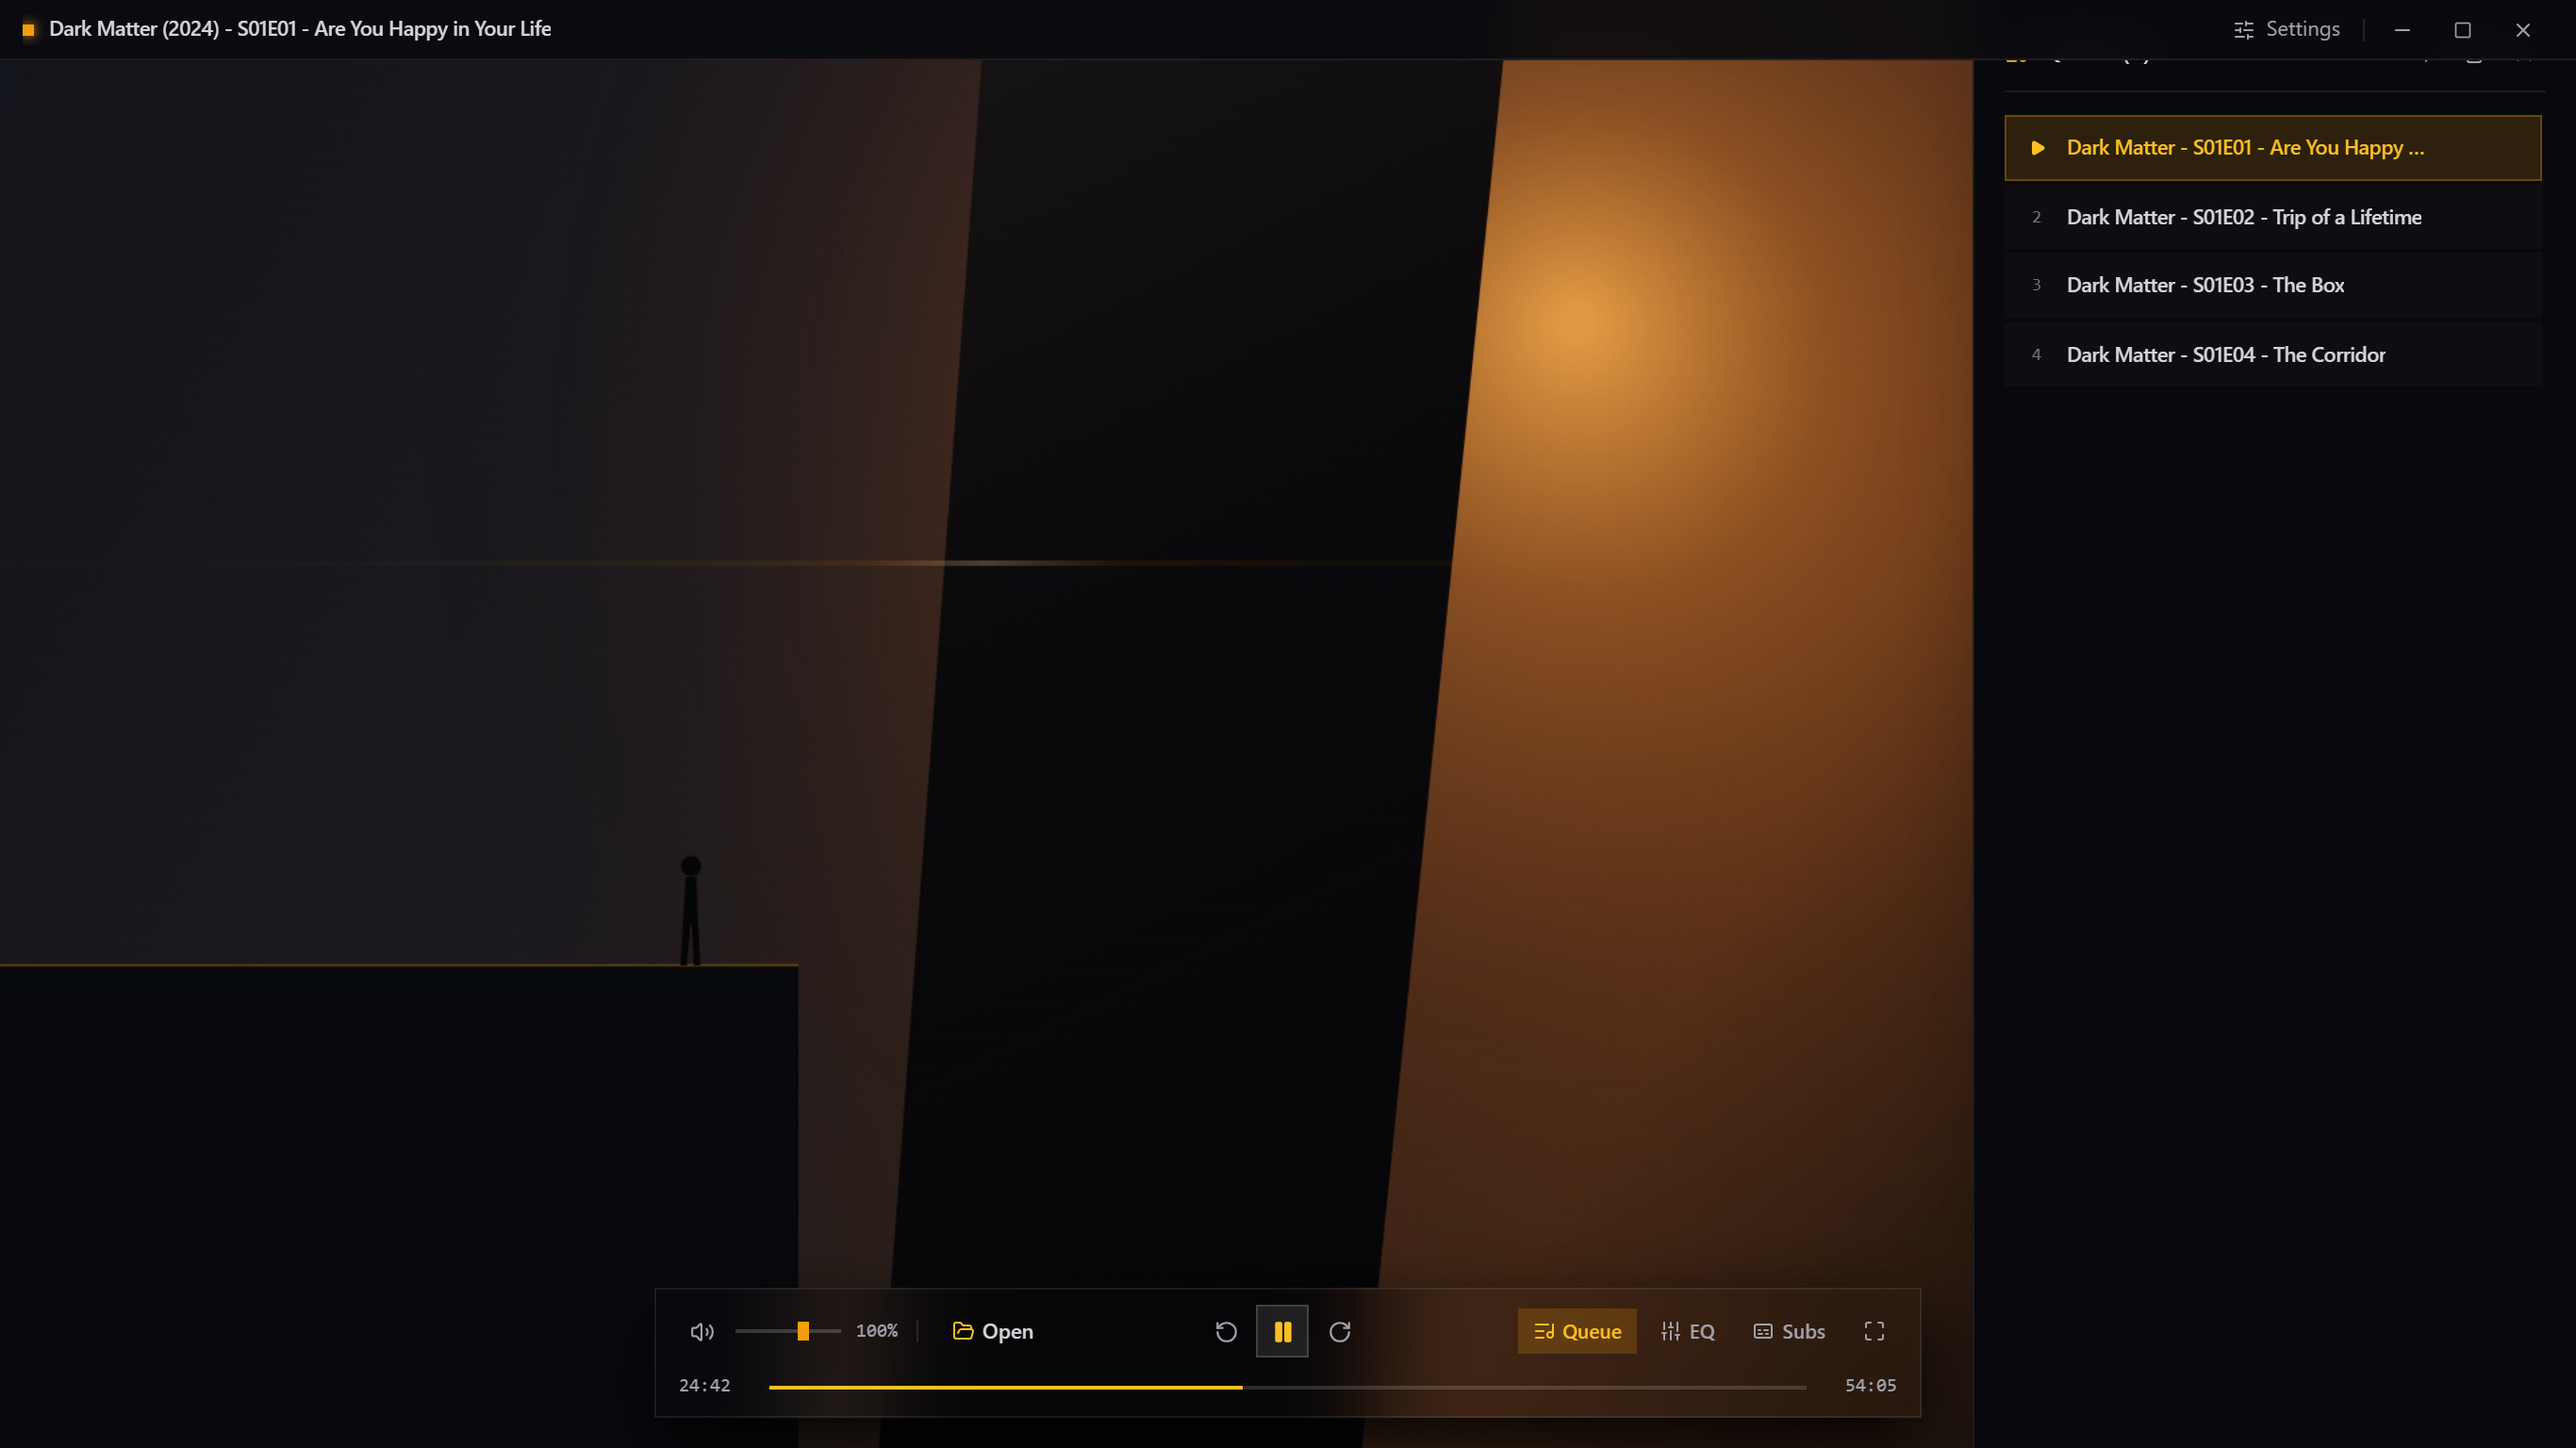
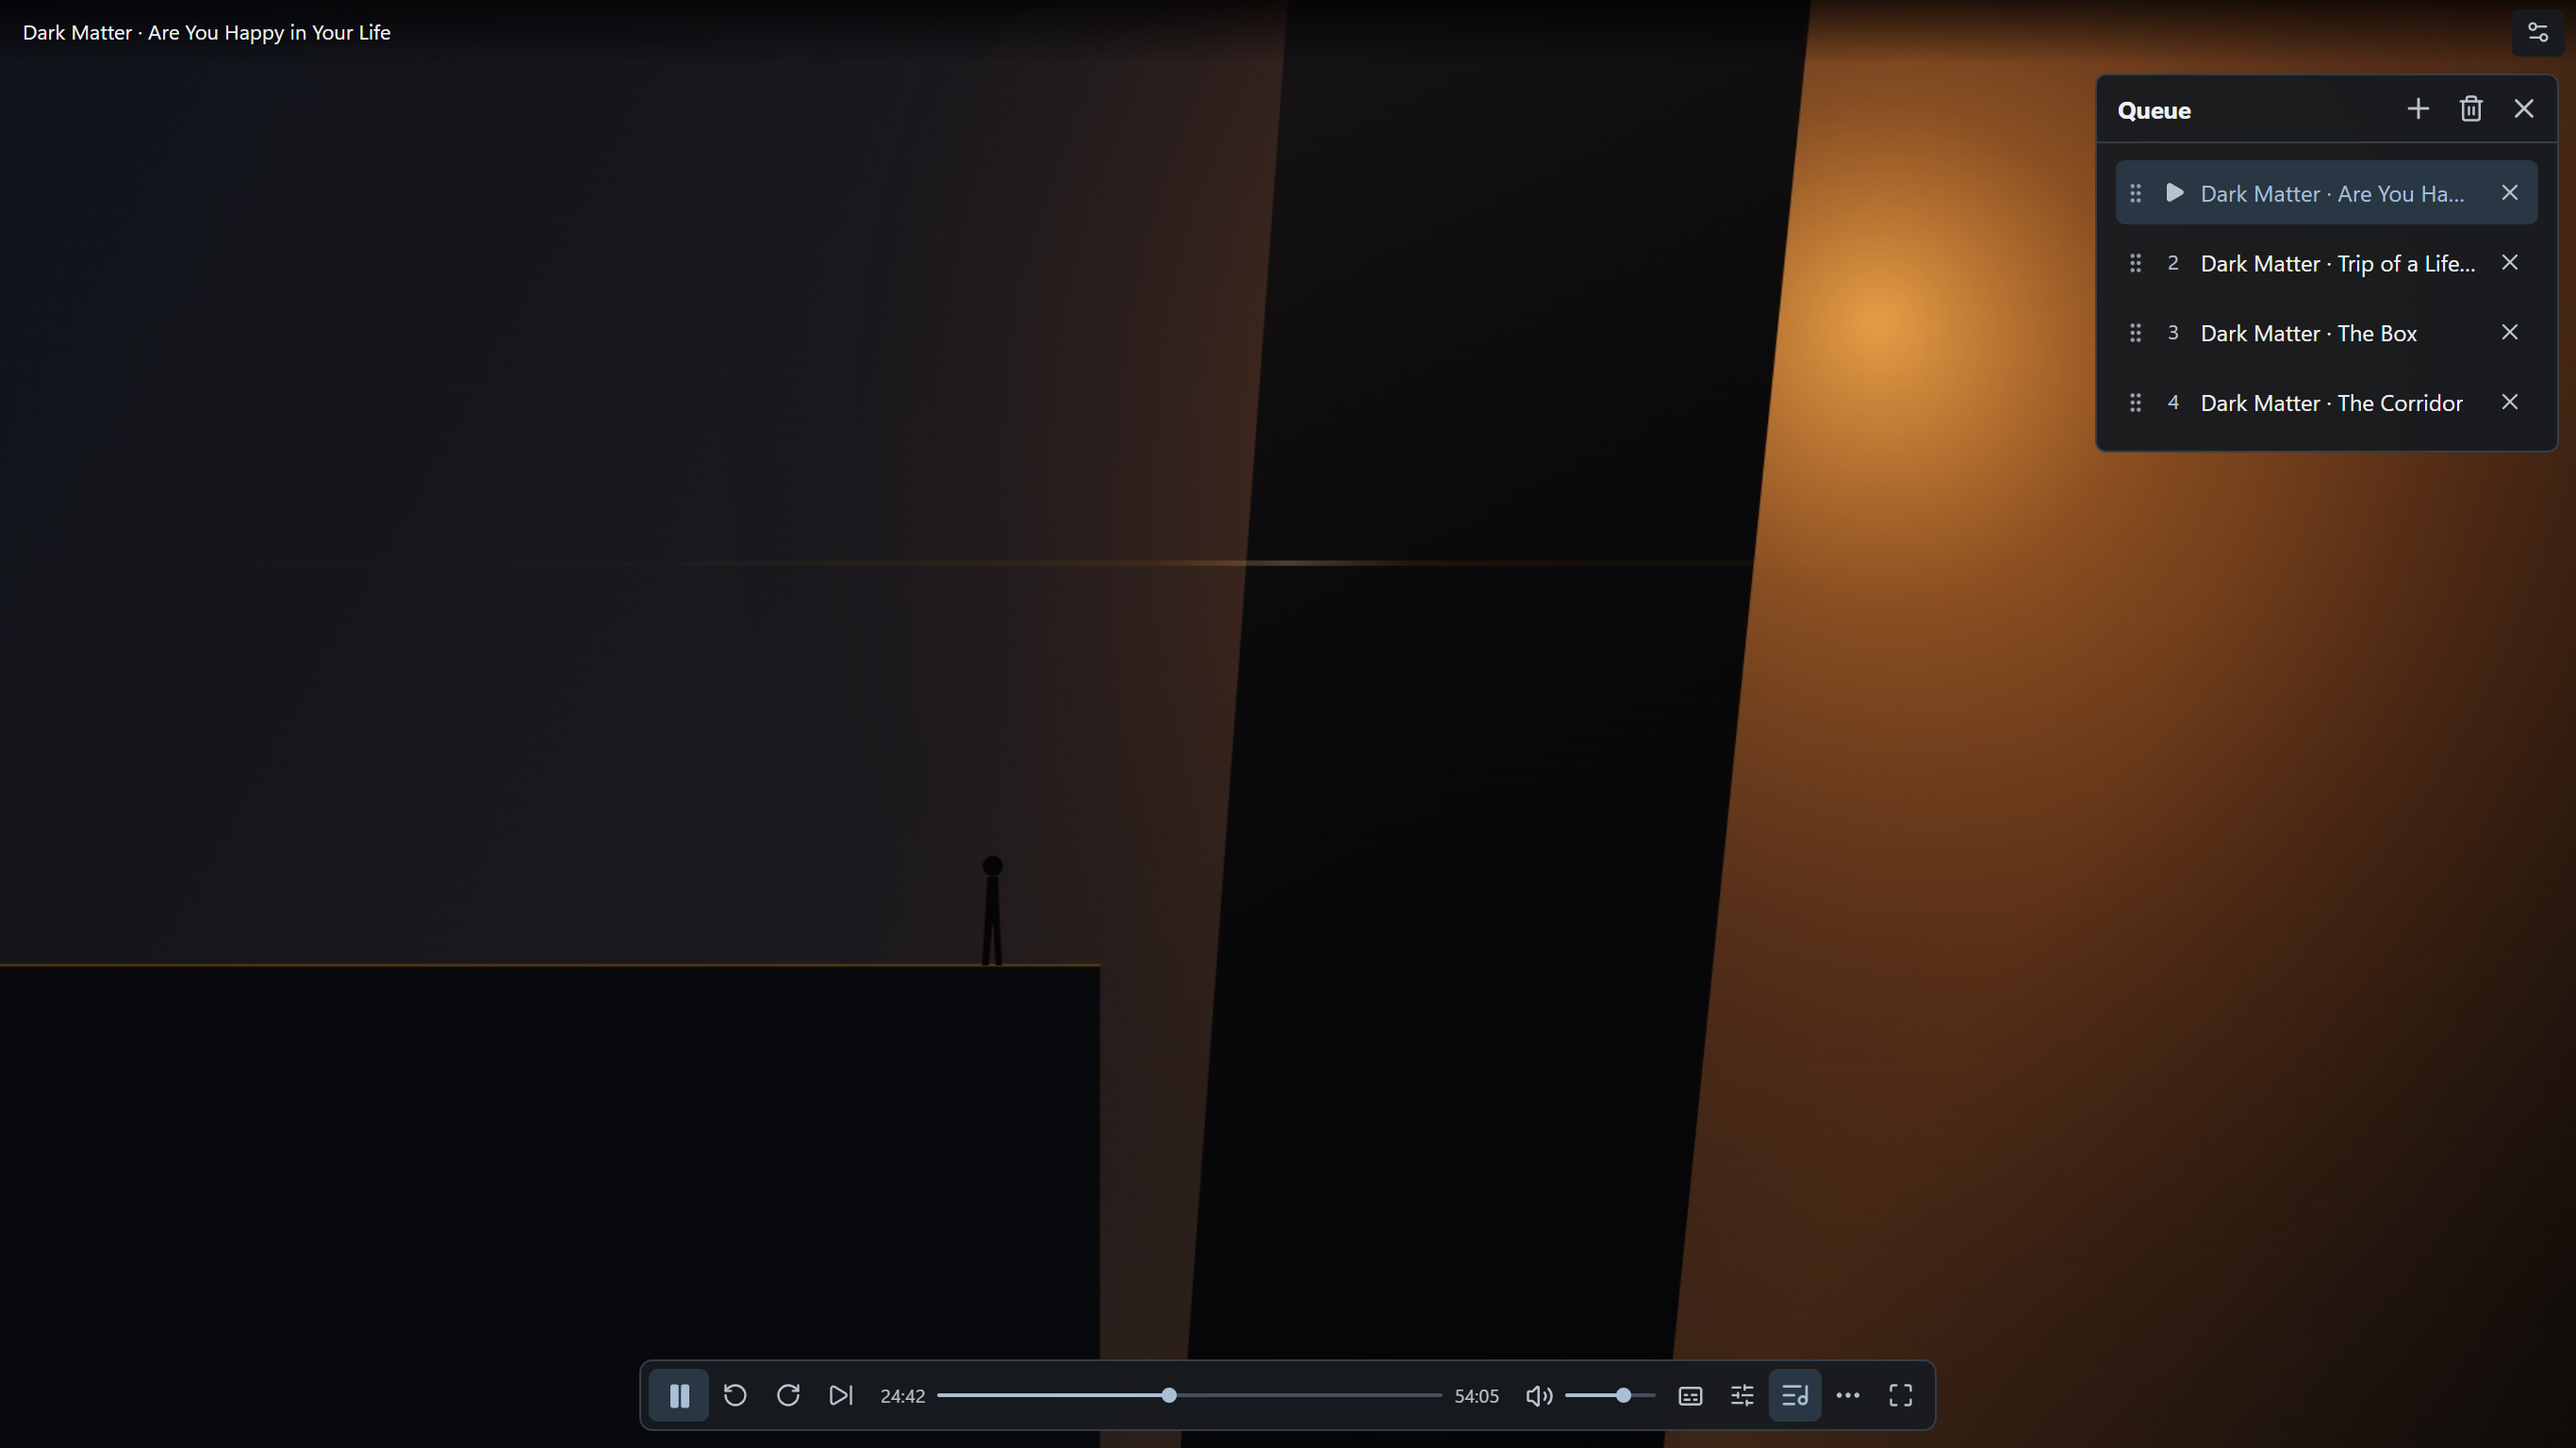
Add Visuals

diff --git a/README.md b/README.md
@@ -2,6 +2,18 @@
 
 MyPlayer Pro is a Windows x64 player for local video and music. It uses a compact set of controls that hide during playback, with a queue, subtitle controls, and a five-band equalizer. The desktop app uses Tauri 2 and Rust, with a React and TypeScript interface.
 
+## Screenshots
+
+![MyPlayer Pro playing a video with its compact playback controls visible](docs/screenshots/01_main_player.png)
+
+| Playback queue | Equalizer |
+| --- | --- |
+| ![Reorderable playback queue beside the video](docs/screenshots/05_playlist_queue.png) | ![Five-band equalizer with preamp, Night Mode, and audio delay controls](docs/screenshots/03_equalizer_panel.png) |
+| **Subtitles** | **Playback settings** |
+| ![Subtitle track picker and appearance controls](docs/screenshots/04_subtitle_panel.png) | ![Playback settings dialog with resume and seeking options](docs/screenshots/06_playback_settings.png) |
+
+[View the right-click playback menu](docs/screenshots/02_context_menu.png)
+
 ## Install and open files
 
 Open [GitHub Releases](https://github.com/Ysh204/MyPlayer-rust/releases) and download the Windows x64 setup installer when available. The NSIS installer registers **MyPlayer Pro (Rust)** for `.mkv`, `.mp3`, `.m4a`, `.flac`, `.wav`, `.ogg`, and `.opus`. To set it as a default, right-click a file, choose **Open with** → **Choose another app**, select **MyPlayer Pro (Rust)**, and choose **Always**.
